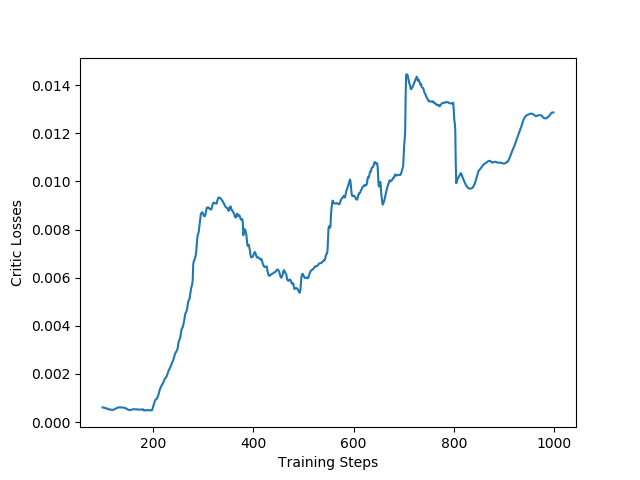
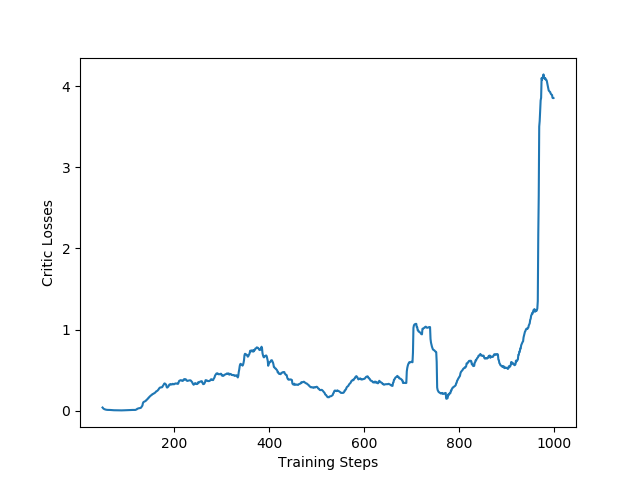
small changes to support running trained nets

diff --git a/helpers.py b/helpers.py
@@ -124,9 +124,14 @@ def worker(model, params, render=False, train=True):
     optimizer = torch.optim.Adam(
         lr=params['lr'], params=model.parameters())
 
+    highest_score = 0
     for epoch in range(params['epochs']):
         values, logprobs, rewards, eplen = run_episode(
             env, model, optimizer, params, render, train)
+
+        if train and eplen > highest_score:
+            highest_score = eplen
+            save_model(model, 'actor_critic_checkpoint@highest.pt')
 
         if train:
             loss, actor_loss, critic_loss = update_params(
@@ -138,9 +143,8 @@ def worker(model, params, render=False, train=True):
             params['critic_losses'].append(critic_loss.item())
 
             if epoch % 10 == 0:
-                print("Epoch: {}, Loss: {:.4f}, Ep Len: {}".format(
-                    epoch, loss, eplen))
-
+                print("Epoch: {}, Loss: {:.4f}, Ep Len: {}, highest: {}".format(
+                    epoch, loss, eplen, highest_score))
 
 def run_episode(env, model, optimizer, params, render, train):
     state = torch.from_numpy(env.reset()).float()
@@ -220,4 +224,4 @@ def update_params(optimizer, values, logprobs, rewards, params, mid_update=False
     loss.backward(retain_graph=True)
     optimizer.step()
 
-    return loss, actor_loss.sum(), critic_loss.mean()
+    return loss, actor_loss.sum(), critic_loss.sum()

diff --git a/main.py b/main.py
@@ -10,11 +10,11 @@ from time import perf_counter
 from model import ActorCritic, loss_fn
 from helpers import discount_rewards, train_model, plot_losses, plot_durations, save_model, load_model, worker
 
-lr = 0.001
+lr = 0.0015
 gamma = 0.99
 gae = 0.9
 clc = 0.1
-step_update = 50
+step_update = 100
 ppo_epsilon = 0.2
 
 input_dim = 4
@@ -52,7 +52,7 @@ params = {
 worker(model, params)
 save_model(model, 'actor_critic.pt')
 
-rolling_window = 100
+rolling_window = 50
 ave_loss = pd.Series(losses).rolling(rolling_window).mean()
 plot_losses(ave_loss, filename='losses.png', plotName='Losses')
 

diff --git a/test_net.py b/test_net.py
@@ -23,7 +23,8 @@ output_dim_critic = 1
 model = ActorCritic(
     input_dim, shared_hidden0, shared_hidden1, critic_hidden, output_dim_actor, output_dim_critic)
 
-filename = 'actor_critic.pt'
+filename = 'actor_critic_checkpoint@highest.pt'
+# filename = 'actor_critic.pt'
 model = load_model(model, filename)
 
 params = {
